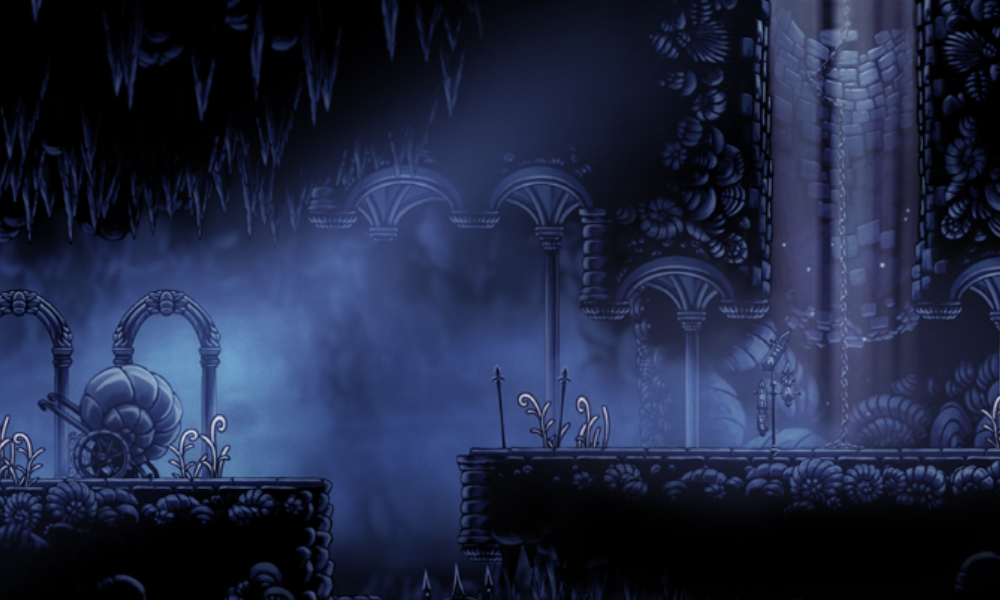
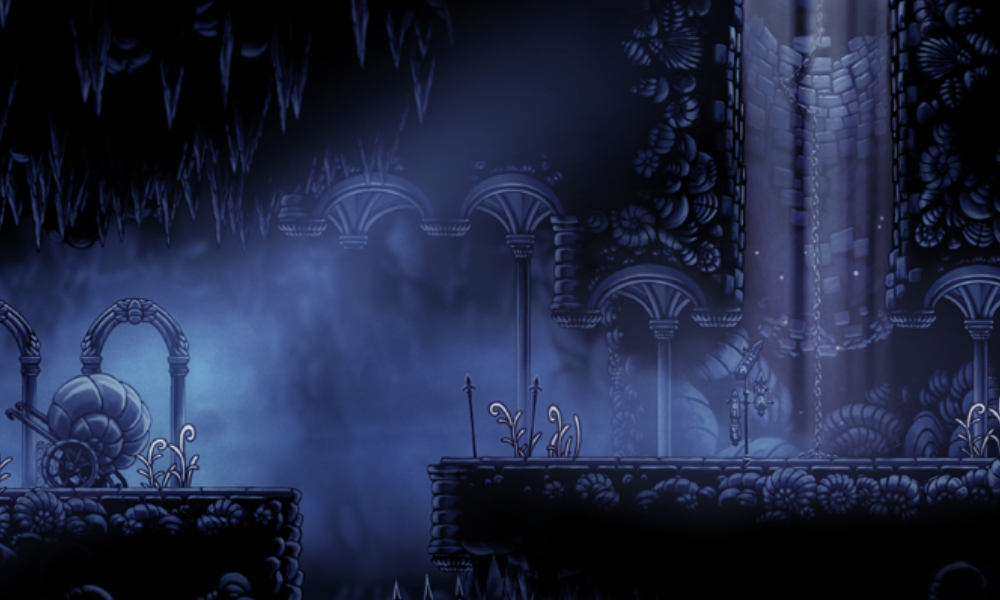
added transitions & room2

diff --git a/MyWorld.java b/MyWorld.java
@@ -1,26 +1,31 @@
 import greenfoot.*;
+import java.util.List;
 
 public class MyWorld extends World {
     Swing objectA = new Swing();
     public int score = 0;
     Label scoreLabel;
     Label soulLabel;
+    Player player; // Declare player as a field
 
     public MyWorld() {
         super(1000, 600, 1);
 
         scoreLabel = new Label(score, 80);
         addObject(scoreLabel, 200, 50);
-        soulLabel = new Label("soul",50);
-        addObject(soulLabel,200,100);
-        Player player = new Player();
-        addObject(player, 300, 200);
-        testWorld();
-        //screen1();
+
+        soulLabel = new Label("soul", 50);
+        addObject(soulLabel, 200, 100);
+
+        player = new Player();
+        addObject(player, 815, 0);
+
+        //testWorld(); 
+        screen2();
     }
 
     private void testWorld() {
-        GreenfootImage bg = new GreenfootImage("images/background.jpg");
+        GreenfootImage bg = new GreenfootImage("images/backGrounds/background.jpg");
         bg.scale(getWidth(), getHeight());
         setBackground(bg);
 
@@ -31,51 +36,59 @@ public class MyWorld extends World {
         addObject(g1, 175, 460);
         addObject(g2, 515, 515);
         addObject(g3, 800, 570);
-        
-        Wall w1 = new Wall (20, 100);
-        addObject(w1, 415, 470);
-        Wall w2 = new Wall(20,100);
-        addObject(w2, 650, 530);
-        Wall w3 = new Wall(20,100);
-        addObject(w3,30,250);
-        Wall w4 = new Wall(20,200);
-        addObject(w4,420,120);
-        
-        Walker walker1 = new Walker();
-        addObject(walker1, 700, 200);
-        Walker walker2 = new Walker();
-        addObject(walker2, 500, 200);
-        
-        Transition t1 = new Transition(40,120,1);
-        addObject(t1,5,360);
+
+        addObject(new Wall(20, 100), 415, 470);
+        addObject(new Wall(20, 100), 650, 530);
+        addObject(new Wall(20, 100), 30, 250);
+        addObject(new Wall(20, 200), 420, 120);
+
+        addObject(new Walker(), 700, 500);
+        addObject(new Walker(), 500, 420);
+
+        addObject(new Transition(40, 120, 1,900,400), 5, 360);
     }
-    private void screen1(){
+
+    private void screen1() {
         GreenfootImage bg = new GreenfootImage("images/backgrounds/screen1.png");
         bg.scale(getWidth(), getHeight());
         setBackground(bg);
-        Ground g1 = new Ground(490,50);
-        addObject(g1,130,520);
-        Ground g2 = new Ground(580,50);
-        addObject(g2,795,495);
-        Ground g3 = new Ground(100,15);
-        addObject(g3,380,800);
-        Wall w1 = new Wall(20,100);
-        addObject(w1,375,550);
-        Wall w2 = new Wall(20,75);
-        addObject(w2,505,510);
-        Wall w3 = new Wall(20,300);
-        addObject(w3,750,200);
-        Wall w4 = new Wall(20,300);
-        addObject(w4,880,200);
-        Wall w5 = new Wall(20,300);
-        addObject(w5,610,200);
-        Roof r1 = new Roof(140,20);
-        addObject(r1,675,325);
-        Roof r2 = new Roof(150,20);
-        addObject(r2,950,325);
+
+        addObject(new Ground(325, 50), 130, 515);
+        addObject(new Ground(700, 50), 790, 485);
+
+        addObject(new Wall(20, 100), 300, 550);
+        addObject(new Wall(20, 75), 440, 510);
+        addObject(new Wall(20, 300), 735, 170);
+        addObject(new Wall(20, 300), 900, 170);
+        addObject(new Wall(20, 300), 560, 170);
+
+        addObject(new Roof(150, 20), 650, 300);
+        addObject(new Roof(100, 20), 950, 300);
+
+        addObject(new Transition(40, 200, 0,100,500), 1000, 400);
+        addObject(new Transition(40, 500, 2,950,300), 0, 300);
     }
-    private void screen2(){
-        //next screen
+
+    private void screen2() {
+        GreenfootImage bg = new GreenfootImage("images/backgrounds/screen2.png");
+        bg.scale(getWidth(), getHeight());
+        setBackground(bg);
+        
+        addObject(new Ground(300, 50), 900, 340);
+        addObject(new Ground(400, 50), 500, 515);
+        addObject(new Ground(60, 60), 730, 460);
+        addObject(new Ground(190, 50), 515, 310);
+        addObject(new Ground(350, 50), 150, 400);
+        
+        addObject(new Wall(50, 150), 315, 450);
+        addObject(new Wall(50, 150), 760, 395);
+        addObject(new Wall(50, 50), 710, 470);
+        addObject(new Wall(50, 250), 280, 140);
+        
+        addObject(new Roof(300, 50), 150, 250);
+
+
+
     }
 
     public void spawnSwing(String direction, Player player) {
@@ -92,31 +105,53 @@ public class MyWorld extends World {
         swing.setRotationBasedOnDirection(direction);
         addObject(swing, x, y);
     }
-    public void spawnFireBall(String direction, Player player){
+
+    public void spawnFireBall(String direction, Player player) {
         int dir = 0;
-        int x=player.getX();
-        int y=player.getY();
-        if(direction.equals("left")){
-             dir = -1;
-        }else if(direction.equals("right")){
-             dir = 1;
+        int x = player.getX();
+        int y = player.getY();
+
+        if (direction.equals("left")) {
+            dir = -1;
+        } else if (direction.equals("right")) {
+            dir = 1;
         }
-        FireBall fireball = new FireBall(dir*30);
-        addObject(fireball, x,y);
+
+        FireBall fireball = new FireBall(dir * 20);
+        addObject(fireball, x, y);
     }
+
     public void setScore(int setScore) {
-        scoreLabel.setValue(setScore + " health");  // Update the score label when the score changes
+        scoreLabel.setValue(setScore + " health");
     }
+
     public void setSoul(int setSoul) {
-        soulLabel.setValue(setSoul + " soul");  // Update the score label when the score changes
+        soulLabel.setValue(setSoul + " soul");
     }
-    public void setScreen(int inputScreen){
+
+    public void setScreen(int inputScreen, int playerX, int playerY) {
         clearScreen();
-        if(inputScreen==1){
+    
+        if (inputScreen == 0) {
+            testWorld();
+        } else if (inputScreen == 1) {
             screen1();
+        } else if (inputScreen == 2) {
+            screen2();
+        } else {
+            testWorld(); // default
         }
+    
+        player.setLocation(playerX, playerY);
     }
-    public void clearScreen(){
-        screen1();
+
+
+    public void clearScreen() { //remove previous screen, except player and ui
+        List<Actor> actors = getObjects(null);
+        for (Actor actor : actors) {
+            if (actor != scoreLabel && actor != soulLabel && actor != player) {
+                removeObject(actor);
+            }
+        }
     }
 }

diff --git a/Player.java b/Player.java
@@ -6,7 +6,6 @@ public class Player extends PhysicsObject {
     private final int jumpStrength = -11;
     private final int maxFallSpeed = 10;
     private boolean onGround = false;
-
     public String directionFacing = "left";
 
     private GreenfootImage[] idleImages;
@@ -39,7 +38,7 @@ public class Player extends PhysicsObject {
     private final int swingDistance = 50;
 
     public int health = 100;
-    public int soul = 0;
+    public int soul = 30;
     private int focusTimer=0;
 
     public Player() {
@@ -53,8 +52,9 @@ public class Player extends PhysicsObject {
         runImages[2] = ImageUtils.scale("player/run/run3.png", 37, 60);
         runImages[3] = ImageUtils.scale("player/run/run4.png", 37, 60);
 
-        attackImage = new GreenfootImage("images/player/attacks/swing3.png");
-
+        //attackImage = new GreenfootImage("images/player/attacks/swing3.png");
+        attackImage = new GreenfootImage(ImageUtils.scale("player/attacks/swing3.png", 55, 55));
+        
         dashImages = new GreenfootImage[3];
         dashImages[0] = new GreenfootImage(ImageUtils.scale("player/dash/dash1.png", 150, 50));
         dashImages[1] = new GreenfootImage(ImageUtils.scale("player/dash/dash2.png", 110, 50)); //stretchy
@@ -79,7 +79,6 @@ public class Player extends PhysicsObject {
         checkGround();
         checkWall();
         checkRoof();
-
         if (attackDisplayCounter > 0) {
             attackDisplayCounter--;
             GreenfootImage img = new GreenfootImage(attackImage);
@@ -153,7 +152,7 @@ public class Player extends PhysicsObject {
             }
         }
 
-        if (!Greenfoot.isKeyDown("space")) {
+        if (!Greenfoot.isKeyDown("space")||isTouching(Roof.class)) {
             isJumping = false;
         }
 
@@ -265,12 +264,6 @@ public class Player extends PhysicsObject {
     public void checkPogo() {
         if (Greenfoot.isKeyDown("down")) {
             setVelocityY(-15); 
-        }
-    }
-    public void checkTransition(){
-        if(isTouching(Transition.class)){
-            MyWorld world = (MyWorld) getWorld();
-            world.setScreen(1);
         }
     }
     

diff --git a/Transition.java b/Transition.java
@@ -1,16 +1,38 @@
 import greenfoot.*;
 
 public class Transition extends WorldBlocks {
-    public int screen = -1;
-    public Transition(int width, int height, int inputScreen) {
+    private int screen;
+    private int spawnX;
+    private int spawnY;
+
+    public Transition(int width, int height, int inputScreen, int playerX, int playerY) {
         screen = inputScreen;
+        spawnX = playerX;
+        spawnY = playerY;
+
         GreenfootImage img = new GreenfootImage(width, height);
-        img.setColor(new Color(255, 50, 255, 100));
+        img.setColor(new Color(255, 50, 255, 50));  // semi-transparent purple
         img.fill();
         setImage(img);
     }
-    public int getScreen(){
-        return(screen);
+
+    public int getScreen() {
+        return screen;
     }
 
+    public int getSpawnX() {
+        return spawnX;
+    }
+
+    public int getSpawnY() {
+        return spawnY;
+    }
+
+    public void act() {
+        if (isTouching(Player.class)) {
+            MyWorld world = (MyWorld) getWorld();
+            // Switch to the target screen and set player position
+            world.setScreen(screen, spawnX, spawnY);
+        }
+    }
 }

diff --git a/PhysicsObject.java b/PhysicsObject.java
@@ -45,9 +45,9 @@ public class PhysicsObject extends Actor {
         Actor roof = getOneIntersectingObject(Roof.class);
         if (roof != null) {
             while (isTouching(Ground.class)) {
-                setLocation(getX(), getY() + 1); // move out of ground
+                setLocation(getX(), getY() + 1);
             }
-            velocityY = 0;
+            velocityY = 5;
             
         }
     }
@@ -55,7 +55,7 @@ public class PhysicsObject extends Actor {
         Actor wall = getOneIntersectingObject(Wall.class);
     
         if (wall != null) {
-            // Leeway for side collisions (left and right)
+            // Leeway for side collisions]
             if (Math.abs(getX() - wall.getX()) <= wall.getImage().getWidth() / 2 + getImage().getWidth() / 2) {
                 if (getX() < wall.getX()) {
                     // Touching the left side of the wall

diff --git a/Ground.java b/Ground.java
@@ -3,7 +3,7 @@ import greenfoot.*;
 public class Ground extends WorldBlocks {
     public Ground(int width, int height) {
         GreenfootImage img = new GreenfootImage(width, height);
-        img.setColor(new Color(50, 255, 50, 100));
+        img.setColor(new Color(50, 255, 50, 50));
         img.fill();
         setImage(img);
     }

diff --git a/Roof.java b/Roof.java
@@ -3,7 +3,7 @@ import greenfoot.*;
 public class Roof extends WorldBlocks {
     public Roof(int width, int height) {
         GreenfootImage img = new GreenfootImage(width, height);
-        img.setColor(new Color(50, 50, 255, 100));
+        img.setColor(new Color(50, 50, 255, 50));
         img.fill();
         setImage(img);
     }

diff --git a/FireBall.java b/FireBall.java
@@ -4,6 +4,7 @@ public class FireBall extends PlayerAttacks {
     int direction = 0;
     private GreenfootImage fireBall;
     boolean hit = false;
+    int frame = 5;
     public FireBall(int direction){
         fireBall = ImageUtils.scale("attacks/fireBall.png", 150, 70);
         if (direction > 0){
